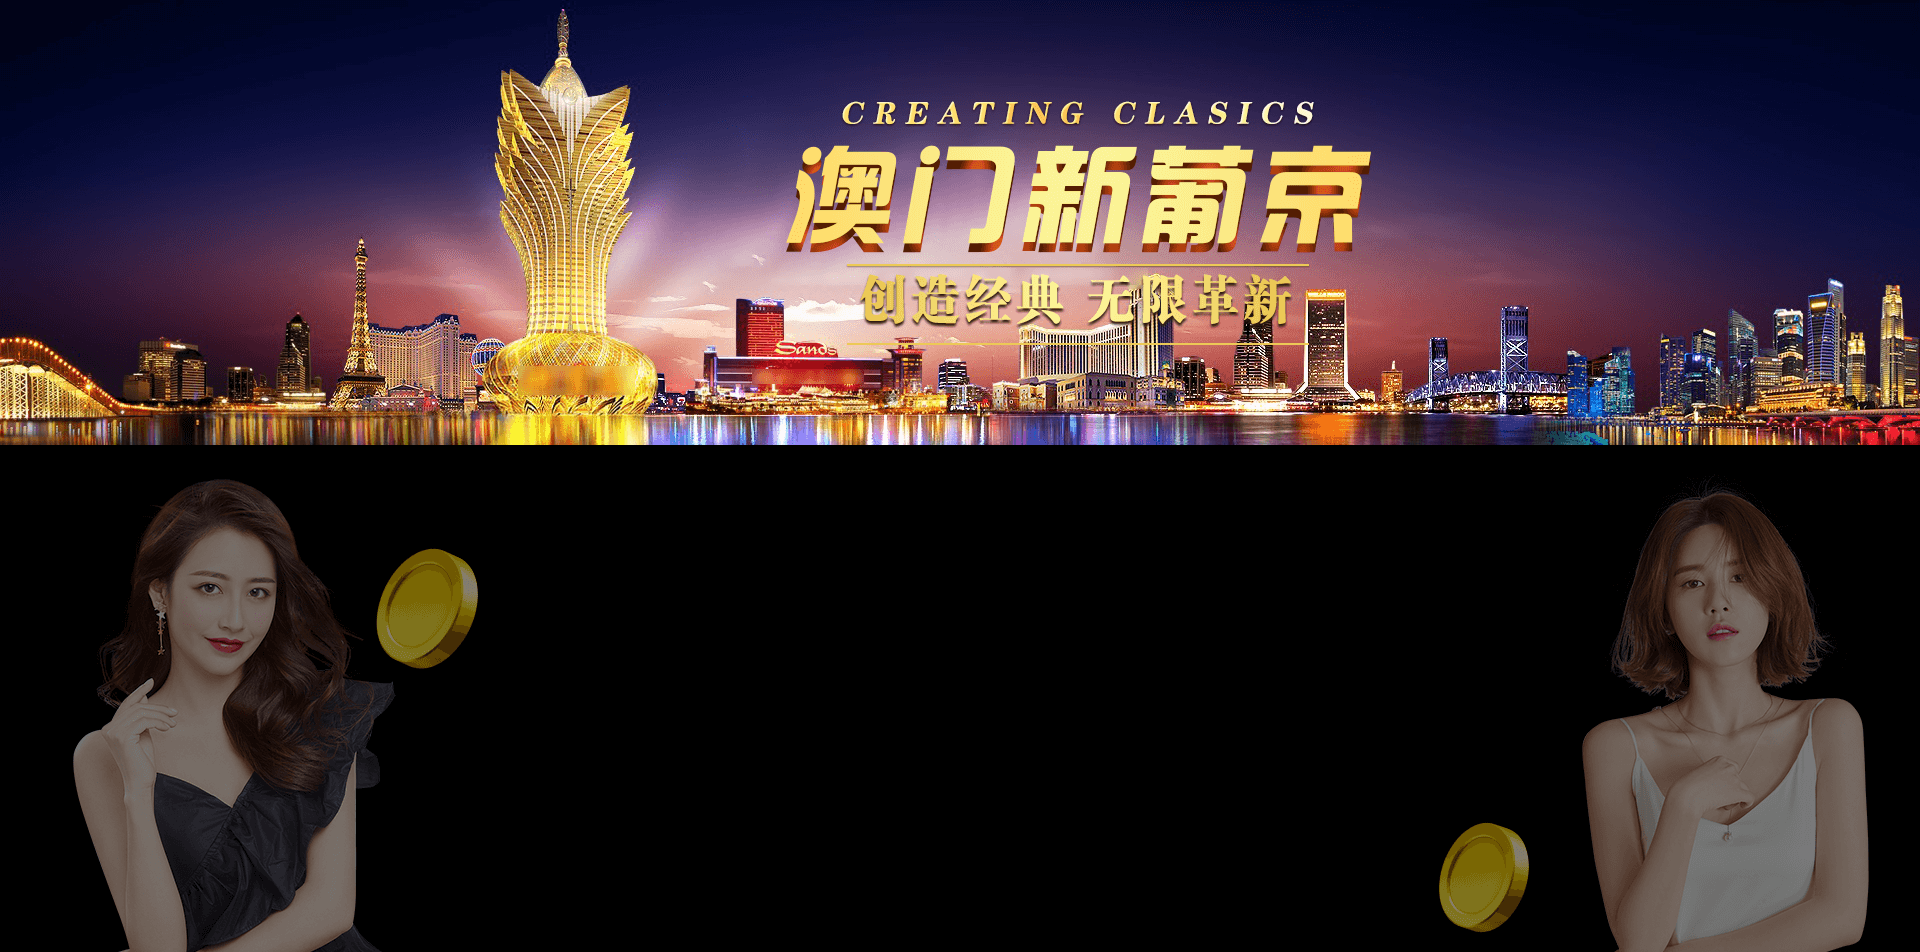
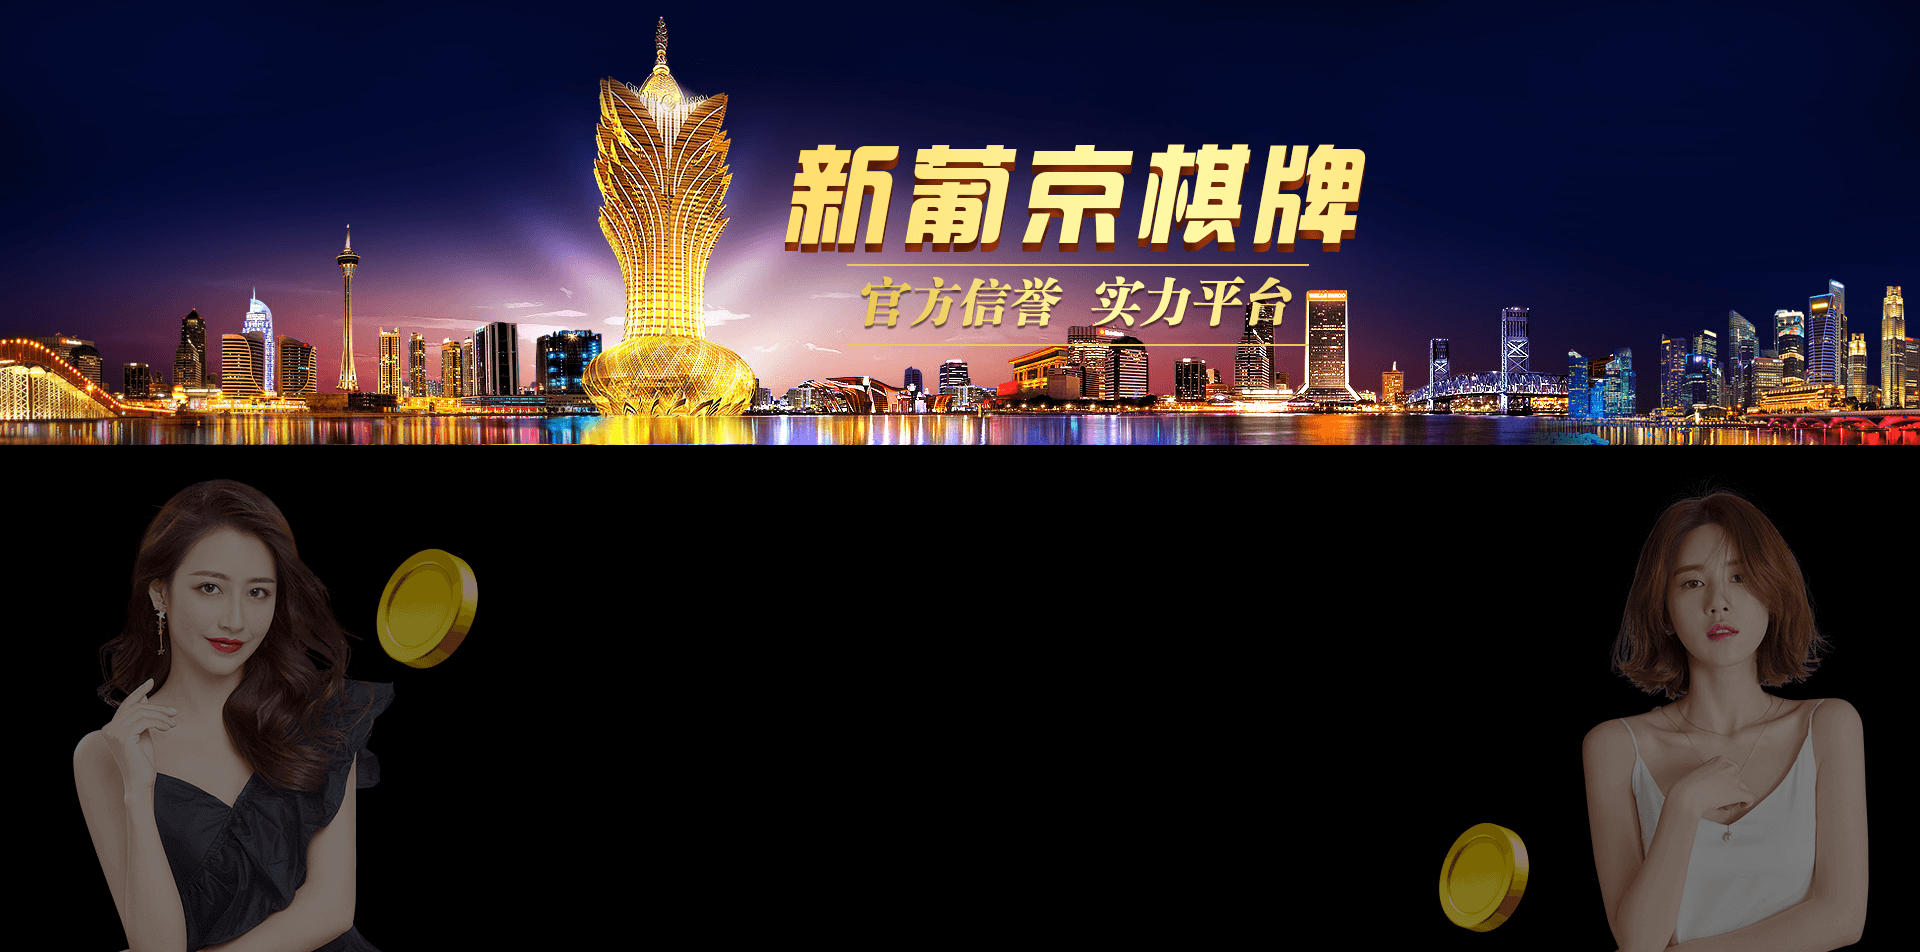
1

Changed region(s): [[0.0, 0.0, 1.0, 0.4874]]

diff --git a/737qp/m/index.html b/737qp/m/index.html
@@ -3,9 +3,9 @@
 <html lang="zh-cn">
 <head>
     <meta charset="UTF-8">
-    <title>澳门新葡京导航</title>
-    <meta name="description" content="澳门新葡京人导航">
-    <meta name="keywords" content="澳门新葡京导航">
+    <title>新葡京棋牌导航</title>
+    <meta name="description" content="新葡京棋牌导航">
+    <meta name="keywords" content="新葡京棋牌导航">
     <meta content="text/html; charset=utf-8" http-equiv="Content-Type">
     <meta content="yes" name="apple-mobile-web-app-capable">
     <meta content="black" name="apple-mobile-web-app-status-bar-style">
@@ -129,7 +129,7 @@
 			<i class="close_icon" onclick="javascript:document.querySelector('.top_tips').style.display = 'none' "></i>
 			<img class="whh_logo" src="img/app_logo.png" alt="">
 			<div class="p_box">
-				<span style="display: block;color:#fff;font-size: 16px;margin-left: 5px;">澳门新葡京 客户端下载</span>
+				<span style="display: block;color:#fff;font-size: 16px;margin-left: 5px;">新葡京棋牌 客户端下载</span>
 				<span class="p_box_subtitle" style="color:#fff;font-size:14px;margin-left: 5px;">国内首家现金娱乐</span>
 			</div>
 		</div>
@@ -159,7 +159,7 @@
 			</div>
 		</div>
 		<div class="withdraw check" style="border-radius: 10px 10px 0 0;margin-top: 15px">
-			<div style="height: 40px;line-height: 40px;font-size: 14px"><span class="init">澳门新葡京导航-游戏入口</span><a class="reloadBtn" href="javascript:window.location.reload();"  style="float: right;
+			<div style="height: 40px;line-height: 40px;font-size: 14px"><span class="init">新葡京棋牌导航-游戏入口</span><a class="reloadBtn" href="javascript:window.location.reload();"  style="float: right;
 		padding: 4px 13px;
 		border-radius: 20px;
 		color: black;

diff --git a/737qp/index.html b/737qp/index.html
@@ -2,11 +2,11 @@
 <!DOCTYPE html>
 <html>
 <head>
-    <title>澳门新葡京导航</title>
+    <title>新葡京棋牌导航</title>
     <meta name="viewport" content="width=device-width, initial-scale=1.0">
     <meta charset="UTF-8">
 
-    <meta name="keywords" content="澳门新葡京导航"/>
+    <meta name="keywords" content="新葡京棋牌导航"/>
     <!-- 引入 Bootstrap -->
     <link href="https://maxcdn.bootstrapcdn.com/bootstrap/3.3.7/css/bootstrap.min.css" rel="stylesheet">
     <link rel="stylesheet" href="./css/style.css">
@@ -58,7 +58,7 @@
     <!-- <img style="width:100%" src='./images/bg2.png' /> -->
     <div class="main">
         <ul class="check" style="display: block">
-            <div class="reload"><span>澳门新葡京导航-游戏入口</span><a class="reloadBtn" href="javascript:window.location.reload();" >重新检测</a></div>
+            <div class="reload"><span>新葡京棋牌导航-游戏入口</span><a class="reloadBtn" href="javascript:window.location.reload();" >重新检测</a></div>
             <ul>
                 <li>
                     <div class="checktype" style="background-image: url(./images/pc_line.png);">线路1</div>
@@ -97,7 +97,7 @@
 <script type='text/javascript' src='js/jquery.js' charset='utf-8'></script>
 <script>
     var s = window.screen.width / 1920;
-    document.getElementsByClassName('main')[0].style.margin='485px auto 0'
+    document.getElementsByClassName('main')[0].style.margin='455px auto 50px'
     if(s>1) {
         document.getElementsByClassName('navbar')[0].style.zoom=s;
         document.getElementsByClassName('content')[0].style.zoom=s;

diff --git a/737qp/css/style.css b/737qp/css/style.css
@@ -174,6 +174,7 @@ a, a:hover, a:focus, a:active{
     text-align: center;
     font-size: 16px;
     font-weight: bold;
+    color:black
 }
 .check .checkInter a:hover, .check .checkInter a:focus{
     color: #a7a379;
